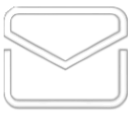
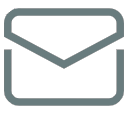
[m - v3] Terminando cambios en el index

diff --git a/index.html b/index.html
@@ -69,15 +69,15 @@
           <div class="contenedor-iconos">
             <!--ENLACE A WHATSAPP WEB-->
             <a class="contenedor-enlace" href="https://wa.link/lldf3s">
-              <img class="icono-footer" src="./assets/icono_wapp1.png" alt="Icono de whatsapp">
+              <img class="icono-footer" src="./assets/icono_wapp.png" alt="Icono de whatsapp">
             </a>
             <!--ENLACE A PAGINA DE INSTAGRAM-->
             <a class="contenedor-enlace" href="https://instagram.com/tinainteriores?igshid=MzRlODBiNWFlZA==">
-              <img class="icono-footer" src="./assets/icono_instagram1.png" alt="Icono de Instagram">
+              <img class="icono-footer" src="./assets/icono_instagram.png" alt="Icono de Instagram">
             </a>
             <!--ENLACE PARA ESCRIBIR UN MENSAJE-->
             <a class="contenedor-enlace" href="./pages/contacto.html">
-              <img class="icono-footer" src="./assets/icono-correo1.png" alt="Icono de e-mail">
+              <img class="icono-footer" src="./assets/icono-correo.png" alt="Icono de e-mail">
             </a>
           </div>
         </footer>
